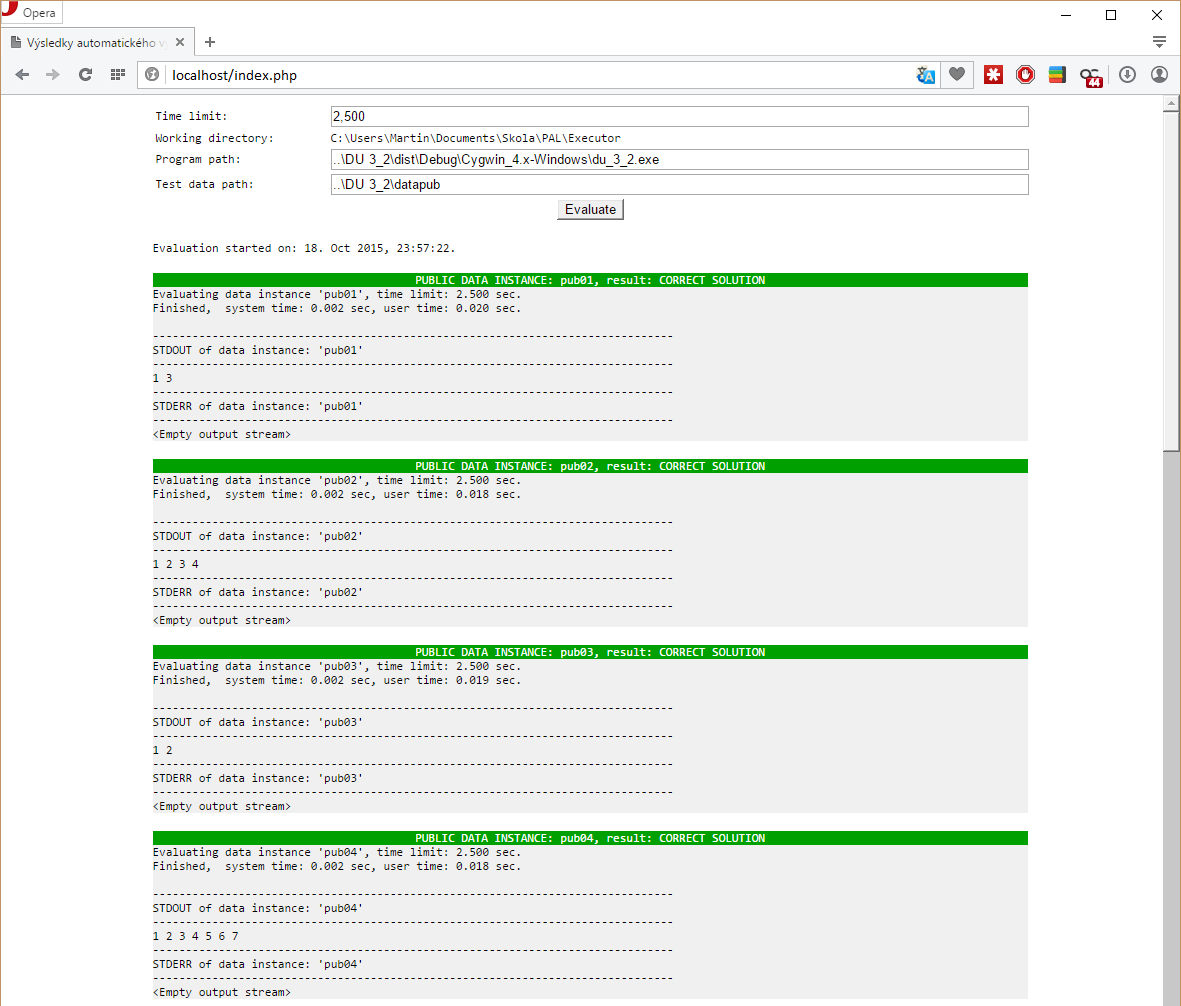
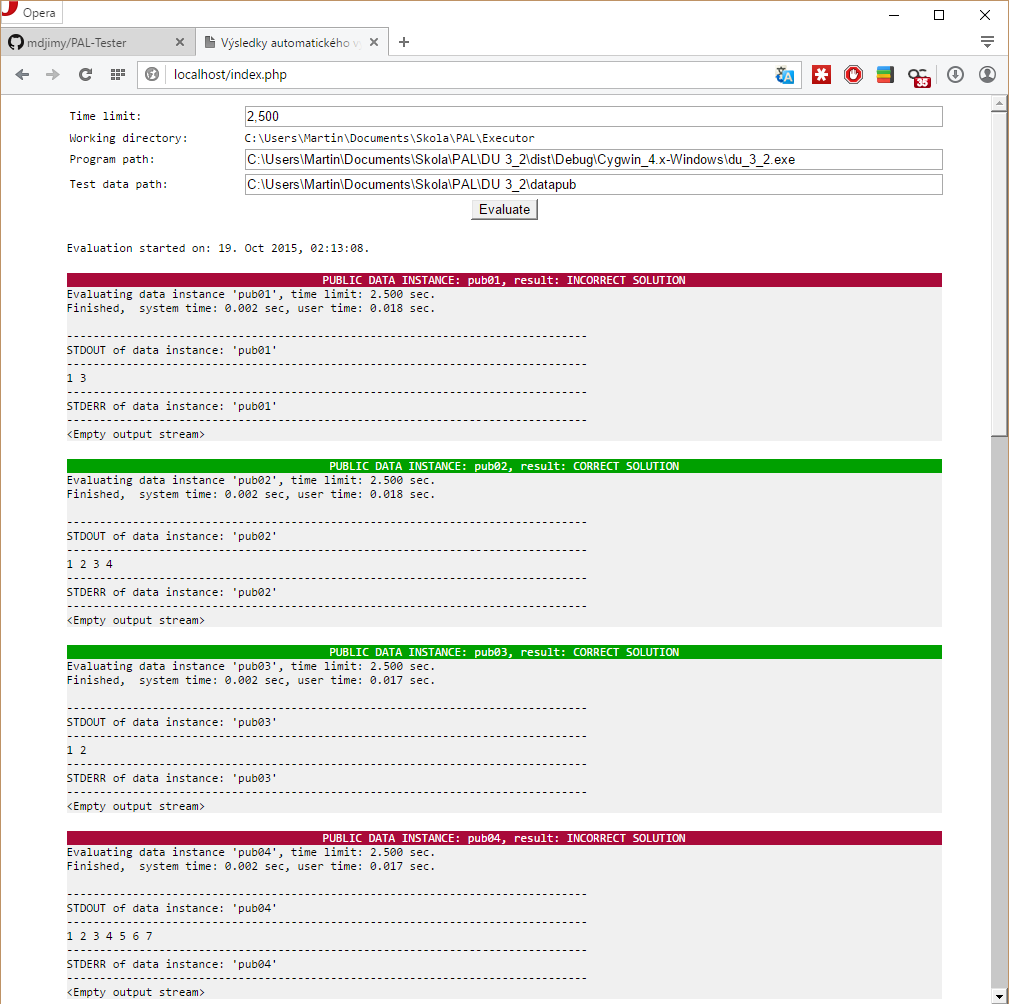
Updated website color scheme

diff --git a/tester.php b/tester.php
@@ -27,7 +27,7 @@ function printResult(array $status) {
 	$first = false;
 
 	echo (IS_CLI ? "" : "&nbsp;") . "
-" . (IS_CLI ? "" : "<div><div style=\"background-color:#" . ($status['solution_ok'] && $status['time_ok'] ? "00a000" : "fa0000") . "/*#cfcfcf*/; text-align:center;\"><span style=\"color:white;\">") . "PUBLIC DATA INSTANCE: " . $status['task'] . ", result: " . (IS_CLI ? ($status['solution_ok'] && $status['time_ok'] ? "\033[32m" : ($status['solution_ok'] ? "\033[33m" : "\033[31m")) : "") . ($status['solution_ok'] ? "" : "IN") . "CORRECT SOLUTION" . (IS_CLI ? "\033[0m" : "</span></div></div>" ) . "
+" . (IS_CLI ? "" : "<div><div style=\"background-color:#" . ($status['solution_ok'] && $status['time_ok'] ? "00a000" : ($status['solution_ok'] ? "B8B84E" : "A90A3A")) . "/*#cfcfcf*/; text-align:center;\"><span style=\"color:white;\">") . "PUBLIC DATA INSTANCE: " . $status['task'] . ", result: " . (IS_CLI ? ($status['solution_ok'] && $status['time_ok'] ? "\033[32m" : ($status['solution_ok'] ? "\033[33m" : "\033[31m")) : "") . ($status['solution_ok'] ? "" : "IN") . "CORRECT SOLUTION" . (IS_CLI ? "\033[0m" : "</span></div></div>" ) . "
 " . (IS_CLI ? "" : "<div class=\"public\">") . "Evaluating data instance '" . $status['task'] . "', time limit: " . sprintf("%.3f", $status['time_limit']) . " sec.
 Finished,  system time: " . sprintf("%.3f", $status['system_time']) . " sec, user time: " . sprintf("%.3f", $status['user_time']) . " sec.
 " . (!$status['time_ok'] ? (IS_CLI ? "\033[31m" : "<b>") . "Timelimit expired!" . (IS_CLI ? "\033[0m" . (SILENT_OUTPUT ? "\n" : "") : "</b>") : "");
